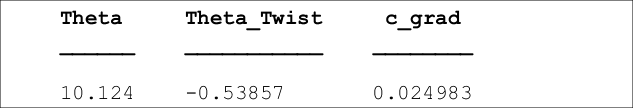
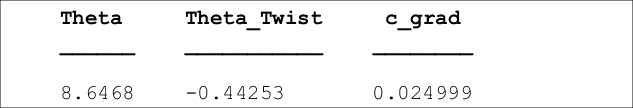
Add tip losses.

Changed region(s): [[0.09, 0.7778, 0.2101, 0.9167], [0.3302, 0.7778, 0.4502, 0.9167], [0.6904, 0.8056, 0.7504, 0.9167]]

diff --git a/main.m b/main.m
@@ -46,16 +46,16 @@ globaldata.Rmax=Rmax;
 globaldata.B=3;
 tic;
 
-globaldata.maxiters=30;
+globaldata.maxiters=100;
 progressbar('Calculating Power', 'Solving Rotor', 'Finding Local Induced Flow', 'Optimisation');
 %progressbar([],[],[], (1/maxiters));
 opts = optimset('fminsearch');
 opts.Display = 'iter'; %What to display in command window
 opts.TolX = 0.0001; %Tolerance on the variation in the parameters
-opts.TolFun = 0.001; %Tolerance on the error
+opts.TolFun = 1e4; %Tolerance on the error
 opts.OutputFcn = @(x,optimValues,state)optMonitor(x,optimValues,state,globaldata); %Tolerance on the error
 opts.MaxIter = globaldata.maxiters-1; %Max number of iterations
-[x, diff, exitflag] = fminsearchbnd(@(x)aepCost(x,globaldata), [deg2rad(12) deg2rad(-1) 0], [deg2rad(2) deg2rad(-2) -0.1], [deg2rad(20) deg2rad(-0.1) 0.025], opts);
+[x, diff, exitflag] = fminsearchbnd(@(x)aepCost(x,globaldata), [deg2rad(8) deg2rad(-0.5) 0], [deg2rad(2) deg2rad(-2) -0.1], [deg2rad(20) deg2rad(-0.1) 0.025], opts);
 xdeg=[rad2deg(x(1)),rad2deg(x(2)),x(3)];
 if exitflag==1
     disp('Optimiser SOLVED.');

diff --git a/WTInducedCalcs.m b/WTInducedCalcs.m
@@ -1,4 +1,4 @@
-function [a_out, adash_out, phi_flow, Cn, Ct,Vrel,curr_tol, i] = WTInducedCalcs(a, adash, V0, omega, y, theta, Chord, B,logid_local,etol_local)
+function [a_out, adash_out, phi_flow, Cn, Ct,Vrel,curr_tol, i] = WTInducedCalcs(a, adash, V0, omega, y, theta, Chord, B,logid_local,etol_local,TipRadius)
 %1: SINGLE ELEMENT: use an iterative solution to find the values of a,
 %adash, phi, Cn and Ct at a particular radius.
 %global logid etol
@@ -30,8 +30,12 @@ for i=1:looplimit
     Cn=(Cl*cos(phi_flow))+(Cd*sin(phi_flow));
     Ct=(Cl*sin(phi_flow))-(Cd*cos(phi_flow));
     
-    a_out=1/(((4*((sin(phi_flow))^2))/(solidity*Cn))+1);
-    adash_out=1/(((4*(sin(phi_flow)*cos(phi_flow)))/(solidity*Ct))-1);
+    %Tip Losses
+    f=(B*(TipRadius-y))/(2*y*sin(phi_flow));
+    F=(2/pi)*acos(exp(-f));
+    
+    a_out=1/(((4*F*((sin(phi_flow))^2))/(solidity*Cn))+1);
+    adash_out=1/(((4*F*(sin(phi_flow)*cos(phi_flow)))/(solidity*Ct))-1);
     
     
     %Test for convergance

diff --git a/WTSingleVelocity.m b/WTSingleVelocity.m
@@ -18,7 +18,7 @@ for j=1:N
     local_radius=RootRadius+((j-1)*radius_delta)+(radius_delta/2); % Calculate local radius from centre increment TODO shorten this
     local_chord=c_mean_local+((local_radius-((TipRadius-RootRadius)/2))*c_grad); % Calculate tapered chord
     local_theta=Theta0+(local_radius*ThetaTwist);
-    [a_s1, adash_s1, phi_s1, Cn_s1, Ct_s1, Vrel, tol_s1, i_s1]=WTInducedCalcs(0,0,V0,w_local,local_radius,local_theta,local_chord,B,logid_local,etol_local);
+    [a_s1, adash_s1, phi_s1, Cn_s1, Ct_s1, Vrel, tol_s1, i_s1]=WTInducedCalcs(0,0,V0,w_local,local_radius,local_theta,local_chord,B,logid_local,etol_local,TipRadius);
     if a_s1<0 || adash_s1<0
         %fprintf(logid_local,'S2 Negatives Detected: a=%f, adash=%f Calling function: WTSingleVelocity(%f, %f, %f, %f, %f,%f,%f)\r\n',a_s1, adash_s1,V0, Theta0, ThetaTwist, c_grad, TipRadius,RootRadius, B);
     end
